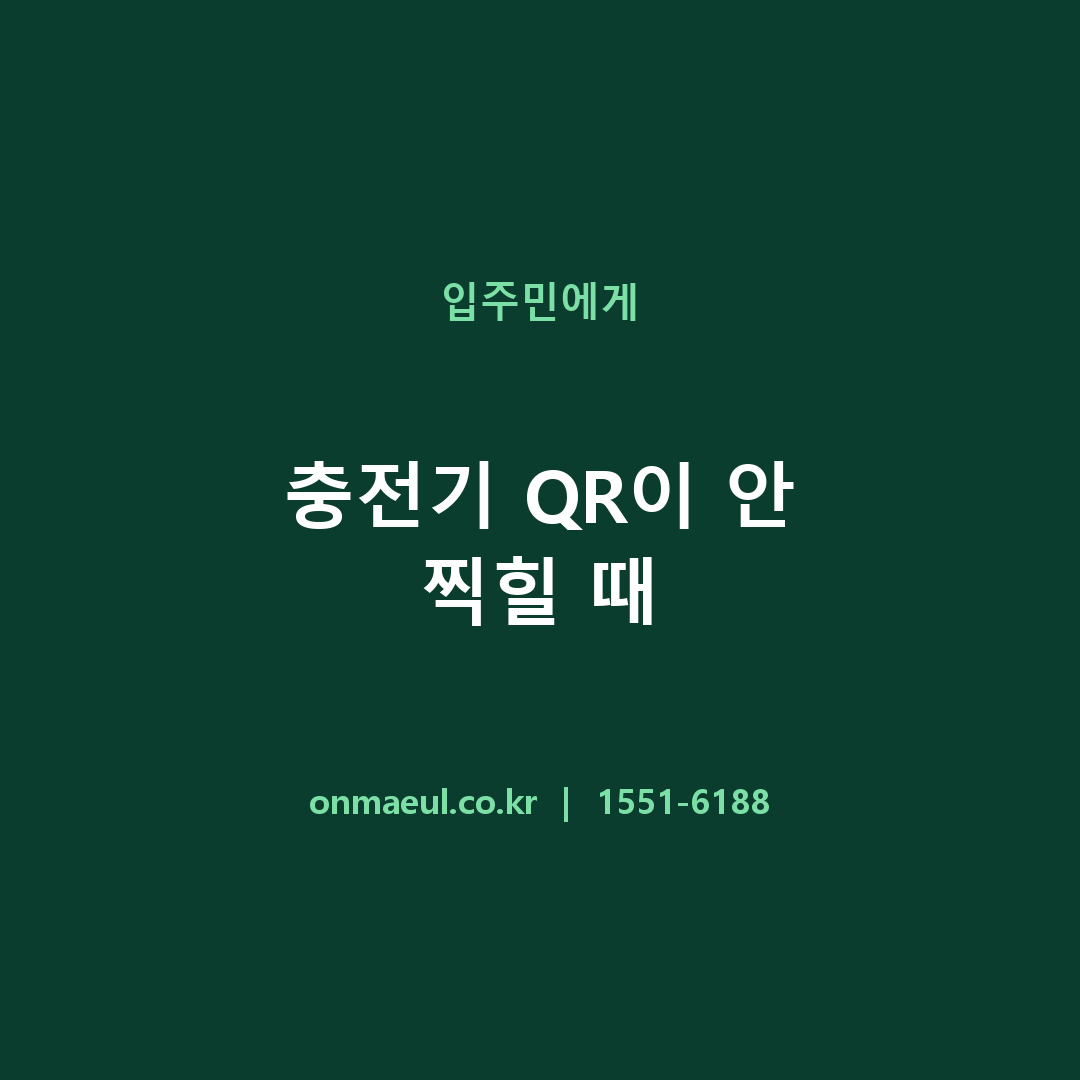
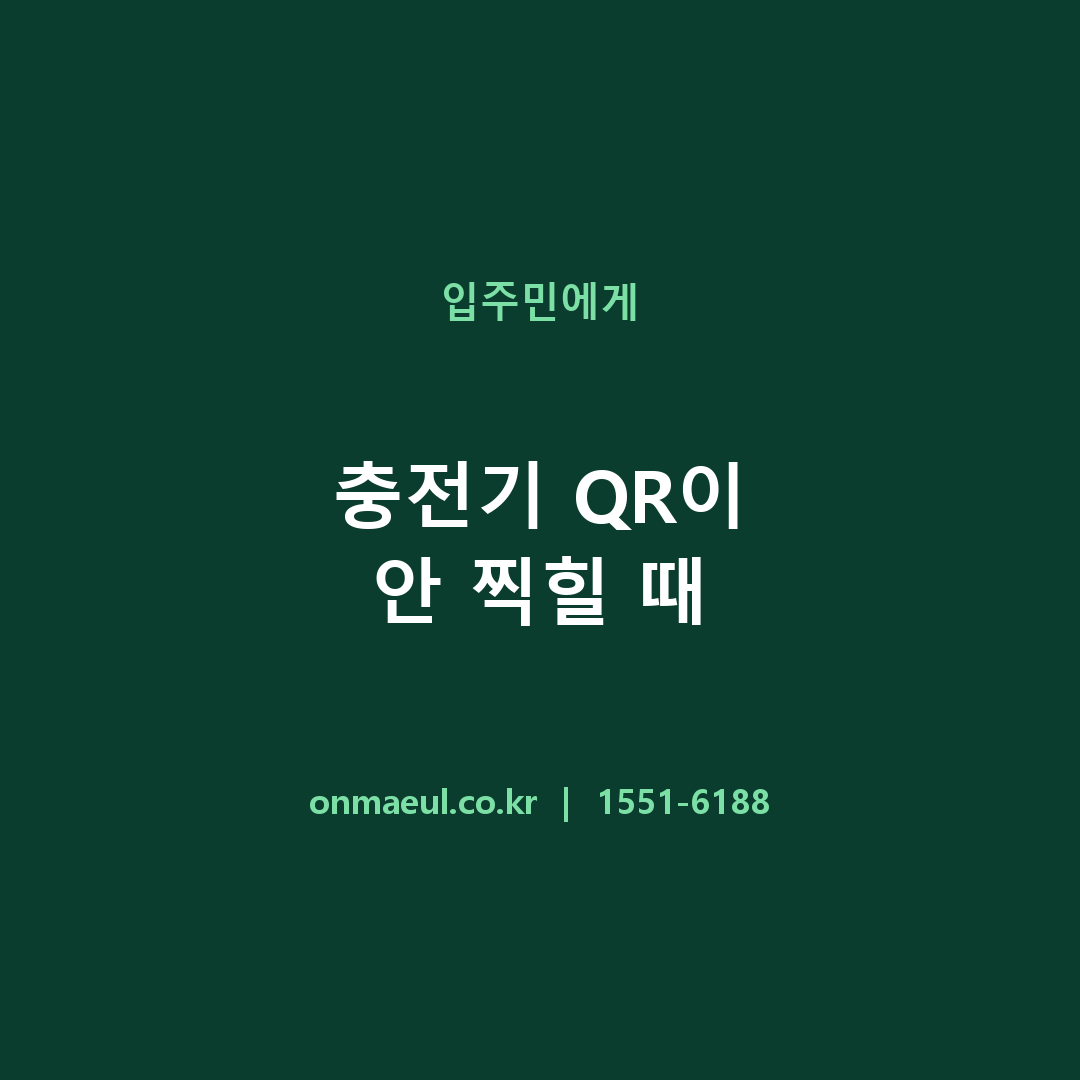
cards: balanced 2-line titles, reword 6 awkward titles, add preview sheet

Changed region(s): [[0.275, 0.4278, 0.7333, 0.4889], [0.3361, 0.5194, 0.6722, 0.5806]]

diff --git a/make_card.py b/make_card.py
@@ -7,13 +7,24 @@ FONT = "C:/Windows/Fonts/malgunbd.ttf"   # ponytail: 윈도우 전용, 리눅스
 BG, FG, ACCENT = "#0B3D2E", "#FFFFFF", "#7CE0A6"
 TAG = {"입주민": "입주민에게", "관리소장": "관리소장님께", "입대의": "입주자대표님께"}
 
+def wrap(title, width=10):
+    """2줄로 균형 있게 나누고, 안 되면 textwrap. 한 글자 조사('안','차')가 줄 끝에 남는 것 방지."""
+    if len(title) <= width: return [title]
+    w = title.split()
+    best = None
+    for i in range(1, len(w)):
+        a, b = " ".join(w[:i]), " ".join(w[i:])
+        if len(a) <= width and len(b) <= width and len(w[i-1]) > 1:
+            if best is None or abs(len(a) - len(b)) < abs(len(best[0]) - len(best[1])): best = (a, b)
+    return list(best) if best else textwrap.wrap(title, width)
+
 def card(post, out):
     im = Image.new("RGB", (1080, 1080), BG)
     d = ImageDraw.Draw(im)
     # 프로필 그리드는 3:4로 좌우가 잘리므로 가운데 정렬 + 중앙 760px 안에 배치
     d.text((540, 300), TAG.get(post["target"], ""), font=ImageFont.truetype(FONT, 40), fill=ACCENT, anchor="mm")
     f = ImageFont.truetype(FONT, 72)
-    lines = textwrap.wrap(post["title"], 10)
+    lines = wrap(post["title"])
     y = 540 - (len(lines) - 1) * 48
     for line in lines:
         d.text((540, y), line, font=f, fill=FG, anchor="mm"); y += 96
